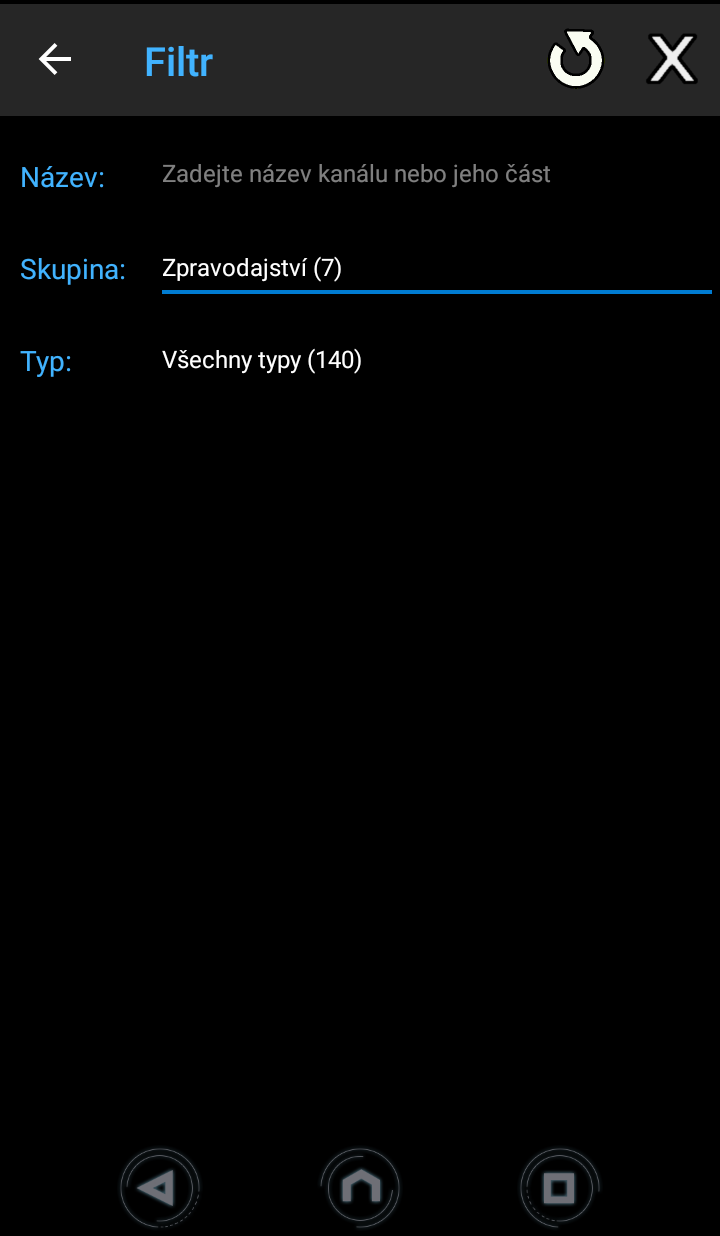
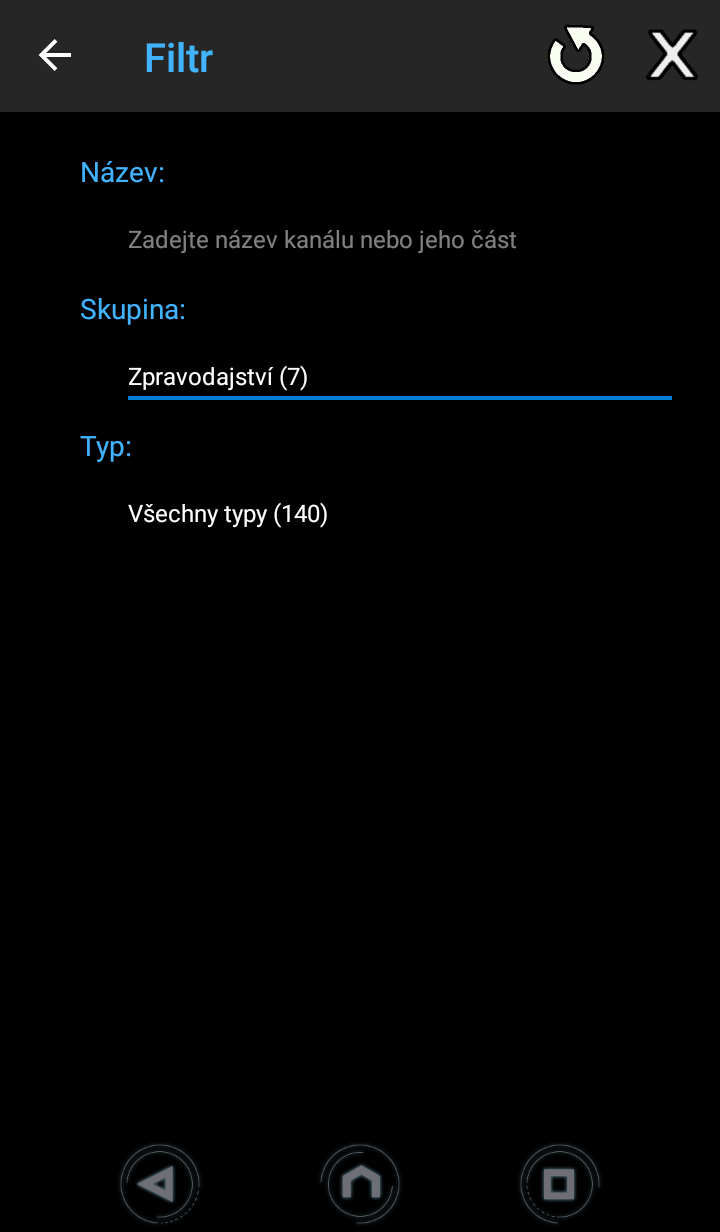
ver3, more keyboard keys bindings, resume on refresh fix

diff --git a/OnlineTelevizor/OnlineTelevizor/Views/FilterPage.xaml b/OnlineTelevizor/OnlineTelevizor/Views/FilterPage.xaml
@@ -8,10 +8,13 @@
     <ContentPage.Resources>
         <ResourceDictionary>
 
+            <Style x:Key="PageBackgroundStyle" TargetType="ScrollView">
+                <Setter Property="BackgroundColor" Value="Black"/>
+            </Style>
+
             <Style x:Key="CaptionLabelStyle" TargetType="Label">
                 <Setter Property="TextColor" Value="#41b3ff"/>
                 <Setter Property="FontSize" Value="14"/>
-                <Setter Property="Margin" Value="10,5,5,5"/>
                 <Setter Property="VerticalTextAlignment" Value="Center"/>
             </Style>
 
@@ -30,36 +33,48 @@
         </ResourceDictionary>
     </ContentPage.Resources>
 
-    <Grid Margin="0,10,0,0">
-        <Grid.RowDefinitions>
-            <RowDefinition Height="40" />
-            <RowDefinition Height="40" />
-            <RowDefinition Height="40" />
-        </Grid.RowDefinitions>
-        <Grid.ColumnDefinitions>
-            <ColumnDefinition Width="20*" />
-            <ColumnDefinition Width="80*" />
-        </Grid.ColumnDefinitions>
+    <ContentPage.Content>
 
-        <Label Grid.Row="0" Grid.Column="0" Text="Název:" Style="{DynamicResource CaptionLabelStyle}"/>
-        <Entry Grid.Row="0" Grid.Column="1" Text="{Binding ChannelNameFilter, Mode=TwoWay}" Placeholder="Zadejte název kanálu nebo jeho část" PlaceholderColor="Gray" Style="{StaticResource CommonEntryTextStyle}"/>
+        <ScrollView Style="{StaticResource PageBackgroundStyle}">
 
-        <Label Grid.Row="1" Grid.Column="0" Text="Skupina:" Style="{DynamicResource CaptionLabelStyle}"/>
-        <Picker Grid.Row="1" Grid.Column="1"
-                x:Name="GroupPicker"
-                SelectedItem="{Binding SelectedGroupItem, Mode=TwoWay}"
-                Style="{StaticResource CommonPickerTextStyle}"
-                ItemsSource="{Binding Groups}"
-                ItemDisplayBinding="{Binding GUIName}"/>
+            <StackLayout>
 
-        <Label Grid.Row="2" Grid.Column="0" Text="Typ:" Style="{DynamicResource CaptionLabelStyle}"/>
-        <Picker Grid.Row="2" Grid.Column="1"
-                x:Name="TypePicker"
-                SelectedItem="{Binding SelectedTypeItem, Mode=TwoWay}"
-                Style="{StaticResource CommonPickerTextStyle}"
-                ItemsSource="{Binding Types}"
-                />
-    </Grid>
+                <StackLayout Margin="20,10,20,0">
+
+                    <StackLayout Margin="20,10,0,0">
+                        <Label Text="Název:" Style="{DynamicResource CaptionLabelStyle}"/>
+                        <Entry  Margin="20,0,0,0" Text="{Binding ChannelNameFilter, Mode=TwoWay}" Placeholder="Zadejte název kanálu nebo jeho část" PlaceholderColor="Gray" Style="{StaticResource CommonEntryTextStyle}"/>
+                    </StackLayout>
+
+                    <StackLayout Margin="20,0,0,0">
+                        <Label Text="Skupina:" Style="{DynamicResource CaptionLabelStyle}"/>
+                        <Picker
+                            Margin="20,0,0,0"
+                            x:Name="GroupPicker"
+                            SelectedItem="{Binding SelectedGroupItem, Mode=TwoWay}"
+                            Style="{StaticResource CommonPickerTextStyle}"
+                            ItemsSource="{Binding Groups}"
+                            ItemDisplayBinding="{Binding GUIName}"/>
+                    </StackLayout>
+
+                    <StackLayout Margin="20,0,0,0">
+
+                        <Label  Text="Typ:" Style="{DynamicResource CaptionLabelStyle}"/>
+                        <Picker
+                                Margin="20,0,0,0"
+                                x:Name="TypePicker"
+                                SelectedItem="{Binding SelectedTypeItem, Mode=TwoWay}"
+                                Style="{StaticResource CommonPickerTextStyle}"
+                                ItemsSource="{Binding Types}"/>
+                    </StackLayout>
+
+                </StackLayout>
+
+            </StackLayout>
+
+        </ScrollView>
+
+    </ContentPage.Content>
 
     <ContentPage.ToolbarItems>
         <ToolbarItem Name="ToolbarItemRefresh" Text="Obnovit"  Command="{Binding RefreshCommand}" Icon="Refresh.png"/>

diff --git a/OnlineTelevizor/OnlineTelevizor/Views/MainPage.xaml.cs b/OnlineTelevizor/OnlineTelevizor/Views/MainPage.xaml.cs
@@ -58,7 +58,7 @@ namespace OnlineTelevizor.Views
 
         private void ChannelsListView_ItemSelected(object sender, SelectedItemChangedEventArgs e)
         {
-            ChannelsListView.ScrollTo(_viewModel.SelectedItem, ScrollToPosition.MakeVisible, true);
+            ChannelsListView.ScrollTo(_viewModel.SelectedItem, ScrollToPosition.MakeVisible, false);
         }
 
         public void OnKeyDown(string key)
@@ -66,18 +66,30 @@ namespace OnlineTelevizor.Views
             switch (key.ToLower())
             {
                 case "dpaddown":
+                case "buttonr1":
                     Task.Run(async () => await OnKeyDown());
                     break;
                 case "dpadup":
+                case "buttonl1":
                     Task.Run(async () => await OnKeyUp());
                     break;
                 case "dpadleft":
-                case "dpadright":
+                case "pageup":
                     Task.Run(async () => await OnKeyLeft());
                     break;
+                case "pagedown":
+                case "dpadright":
+                    Task.Run(async () => await OnKeyRight());
+                    break;
                 case "dpadcenter":
+                case "space":
+                case "buttonr2":
+                case "mediaplaypause":
+                case "enter":
                     if (_viewModel.SelectedItem != null)
                         Task.Run(async () => await _viewModel.PlayStream(_viewModel.SelectedItem.Url));
+                    break;
+                case "back":
                     break;
                 case "num0":
                     HandleNumKey(0);
@@ -109,11 +121,15 @@ namespace OnlineTelevizor.Views
                 case "num9":
                     HandleNumKey(9);
                     break;
+                case "f5":
+                case "del":
+                    RefreshOnResume();
+                    break;
                 default:
                     if (_config.DebugMode)
                     {
                         _loggingService.Debug($"Unbound key down: {key}");
-                        CrossToastPopUp.Current.ShowToastSuccess(key);
+                        CrossToastPopUp.Current.ShowCustomToast($"Unbound key down: {key}", "#0000FF", "#FFFFFF");
                     }
                     break;
             }
@@ -130,7 +146,7 @@ namespace OnlineTelevizor.Views
             _lastNumPressedTime = DateTime.Now;
             _numberPressed += number;
 
-            CrossToastPopUp.Current.ShowToastSuccess(_numberPressed);
+            CrossToastPopUp.Current.ShowCustomToast(_numberPressed, "#0000FF", "#FFFFFF");
 
             new Thread(() =>
             {
@@ -145,21 +161,23 @@ namespace OnlineTelevizor.Views
                     Task.Run(async () =>
                     {
                         await _viewModel.SelectChannelByNumber(_numberPressed);
-                        if (_viewModel.SelectedItem != null)
+
+                        if (
+                                (_viewModel.SelectedItem != null) &&
+                                (_numberPressed == _viewModel.SelectedItem.ChannelNumber)
+                           )
+                        {
                             await _viewModel.PlayStream(_viewModel.SelectedItem.Url);
+                        }
                     });
                 }
 
             }).Start();
         }
 
-        public void Reset()
+        public void RefreshOnResume()
         {
             _viewModel.ResetConnectionCommand.Execute(null);
-        }
-
-        public void Refresh()
-        {
             _viewModel.RefreshCommand.Execute(null);
         }
 
@@ -196,6 +214,12 @@ namespace OnlineTelevizor.Views
 
         private async Task OnKeyLeft()
         {
+            await _viewModel.SelectPreviousChannel(10);
+        }
+
+        private async Task OnKeyRight()
+        {
+            await _viewModel.SelectNextChannel(10);
         }
 
         private async Task OnKeyDown()
@@ -205,12 +229,7 @@ namespace OnlineTelevizor.Views
 
         private async Task OnKeyUp()
         {
-            var filterPageFromStack = GetNavigationStackPageByType(typeof(FilterPage));
-
-            if (filterPageFromStack == null)
-            {
-                await _viewModel.SelectPreviousChannel();
-            }
+            await _viewModel.SelectPreviousChannel();
         }
 
         private async void ToolbarItemFilter_Clicked(object sender, EventArgs e)

diff --git a/OnlineTelevizor/OnlineTelevizor/ViewModels/MainPageViewModel.cs b/OnlineTelevizor/OnlineTelevizor/ViewModels/MainPageViewModel.cs
@@ -97,17 +97,18 @@ namespace OnlineTelevizor.ViewModels
 
         public ChannelItem SelectedItem { get; set; }
 
-        public async Task SelectNextChannel()
+
+        public async Task SelectNextChannel(int step = 1)
         {
             await _semaphoreSlim.WaitAsync();
 
             await Task.Run(
                 () =>
                 {
-                    try
-                    {
-                        if (Channels.Count == 0)
-                            return;
+                try
+                {
+                    if (Channels.Count == 0)
+                        return;
 
                         if (SelectedItem == null)
                         {
@@ -116,12 +117,22 @@ namespace OnlineTelevizor.ViewModels
                         else
                         {
                             bool next = false;
-                            foreach (var ch in Channels)
+                            var nextCount = 1;
+                            for (var i = 0; i < Channels.Count; i++)
                             {
+                                var ch = Channels[i];
+
                                 if (next)
                                 {
-                                    SelectedItem = ch;
-                                    break;
+                                    if (nextCount == step || i == Channels.Count-1)
+                                    {
+                                        SelectedItem = ch;
+                                        break;
+                                    }
+                                    else
+                                    {
+                                        nextCount++;
+                                    }
                                 }
                                 else
                                 {
@@ -142,7 +153,7 @@ namespace OnlineTelevizor.ViewModels
                 });
         }
 
-        public async Task SelectPreviousChannel()
+        public async Task SelectPreviousChannel(int step = 1)
         {
             await _semaphoreSlim.WaitAsync();
 
@@ -161,12 +172,20 @@ namespace OnlineTelevizor.ViewModels
                         else
                         {
                             bool previous = false;
+                            var previousCount = 1;
+
                             for (var i = Channels.Count-1; i >=0 ; i--)
                             {
                                 if (previous)
                                 {
-                                    SelectedItem = Channels[i];
-                                    break;
+                                    if (previousCount == step || i == 0)
+                                    {
+                                        SelectedItem = Channels[i];
+                                        break;
+                                    } else
+                                    {
+                                        previousCount++;
+                                    }
                                 }
                                 else
                                 {
@@ -256,7 +275,19 @@ namespace OnlineTelevizor.ViewModels
         private async Task Refresh()
         {
             await RefreshChannels(false);
-            await RefreshEPG();
+
+            // reconnecting after 1 sec (connection may fail after resume on wifi with poor signal)
+            await Task.Delay(1000);
+
+            if (_service.Status == StatusEnum.ConnectionNotAvailable)
+            {
+                await RefreshChannels(false);
+                await RefreshEPG();
+            }
+            else
+            {
+                await RefreshEPG();
+            }
         }
 
         private async Task RefreshEPG(bool SetFinallyNotBusy = true)

diff --git a/OnlineTelevizor/OnlineTelevizor/Views/App.xaml.cs b/OnlineTelevizor/OnlineTelevizor/Views/App.xaml.cs
@@ -25,6 +25,7 @@ namespace OnlineTelevizor.Views
 
             var config = new OnlineTelevizorConfiguration(context);
 
+
 #if DEBUG
             config.DebugMode = true;
 #endif
@@ -55,13 +56,12 @@ namespace OnlineTelevizor.Views
         protected override void OnSleep()
         {
             // Handle when your app sleeps
-            _mainPage.Reset();
         }
 
         protected override void OnResume()
         {
             // Handle when your app resumes
-            _mainPage.Refresh();
+            _mainPage.RefreshOnResume();
         }
     }
 }
